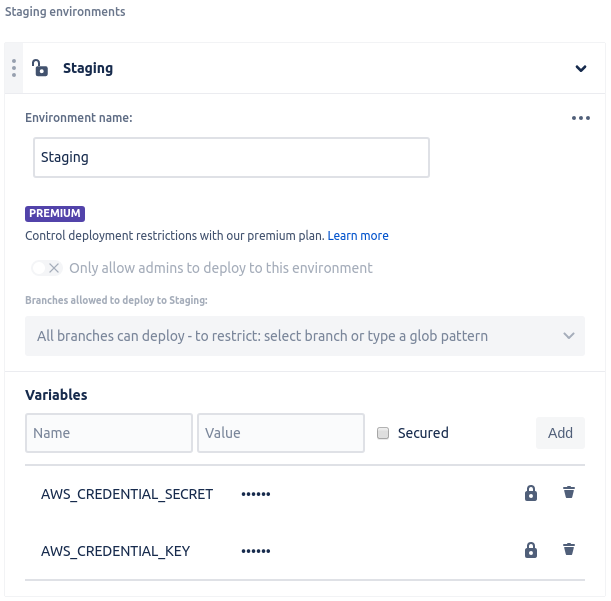
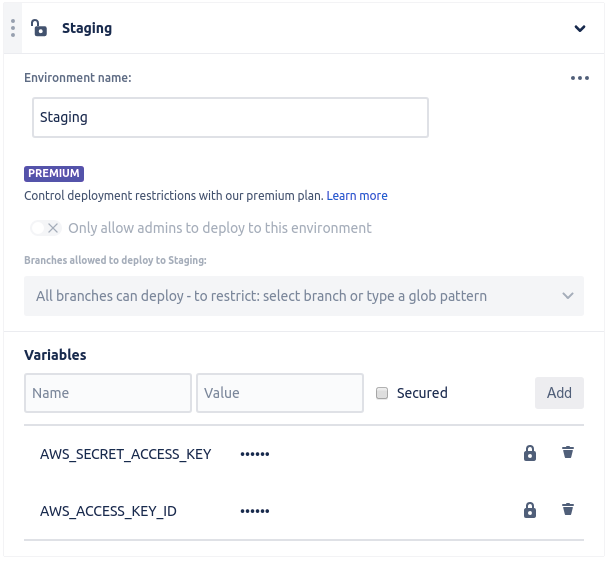
recommended changes

diff --git a/CI/Bitucket/README.md b/CI/Bitucket/README.md
@@ -16,8 +16,8 @@
 * Access the menu "Settings -> Pipelines -> Deployments"
     - Select the environment you want to deploy (Staging or Production), in this example I will use Staging
     - Add the variables
-        * AWS_CREDENTIAL_KEY: Access Key ID
-        * AWS_CREDENTIAL_SECRET: Secret Key
+        * AWS_ACCESS_KEY_ID: Access Key ID
+        * AWS_SECRET_ACCESS_KEY: Secret Key
   
 ![Set Environments](images/environment-variables.png)
 
@@ -33,7 +33,7 @@ pipelines:
           image: php:7.3
           caches:
             - composer
-          script:
+          script: #In this step you can add any additional required commands such as caching, etc.
             - apt-get update && apt-get install -y unzip
             - curl -sS https://getcomposer.org/installer | php -- --install-dir=/usr/local/bin --filename=composer
             - composer install --prefer-dist --optimize-autoloader --no-dev
@@ -51,10 +51,9 @@ pipelines:
           trigger: manual
           caches:
             - node
-          script:
-            - apk add python3
+          script: #In this step you can add any additional required commands such as caching, etc.
             - npm install -g serverless
-            - serverless config credentials --stage prod --provider aws --key ${AWS_DEV_LAMBDA_KEY} --secret ${AWS_DEV_LAMBDA_SECRET}
+            - serverless config credentials --stage dev --provider aws --key ${AWS_ACCESS_KEY_ID} --secret ${AWS_SECRET_ACCESS_KEY}
             - serverless deploy --stage dev
 ```
 
